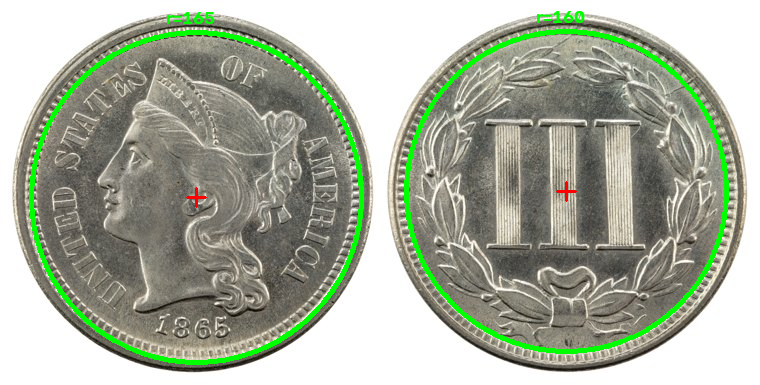
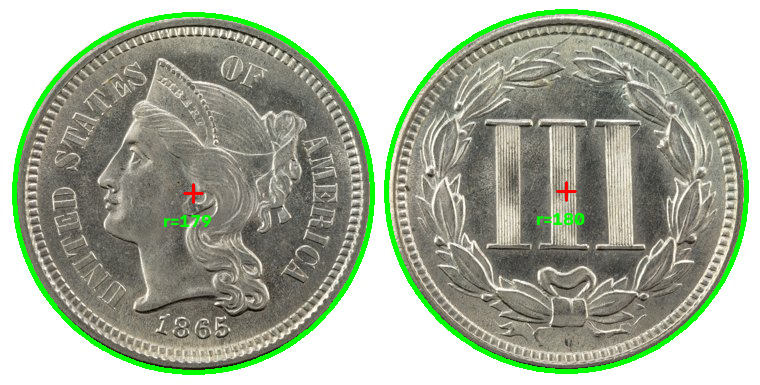
fix: 半径文字不再被图片边缘裁掉
大圆贴近画布上下边时外侧放不下，改为优先圆上方、其次圆下方、兜底落在圆心下方，并夹紧到画布内。

diff --git a/src/hough_tool/annotate.py b/src/hough_tool/annotate.py
@@ -15,6 +15,23 @@ CIRCLE_COLOR = (0, 255, 0)
 CENTER_COLOR = (0, 0, 255)
 
 
+def _label_origin(circle: Circle, width: int, height: int) -> tuple[int, int]:
+    """挑选半径文字的画点，避免被图片边缘裁掉。
+
+    优先放在圆上方，其次圆下方；两者都超出画布时（大圆贴近上下边），
+    退到圆心下方一点，宁可压在图案上也不让数字缺一半。
+    """
+    text_h = 22  # 0.6 字号的实际文字高度，留一点余量
+    x = min(max(circle.x - 30, 4), max(width - 64, 4))
+    above = circle.y - circle.r - 8
+    below = circle.y + circle.r + 22
+    if above >= text_h:
+        return x, above
+    if below <= height - 6:
+        return x, below
+    return x, min(circle.y + 34, height - 8)
+
+
 def annotate(
     image: np.ndarray,
     circles: list[Circle],
@@ -23,6 +40,7 @@ def annotate(
 ) -> np.ndarray:
     """返回画好圆的结果副本，不修改传入的原图。"""
     canvas = image.copy()
+    height, width = canvas.shape[:2]
     for circle in circles:
         cv2.circle(canvas, (circle.x, circle.y), circle.r, color, thickness)
         # 画一个十字标记圆心，方便核对圆心是否落在目标中心
@@ -38,7 +56,7 @@ def annotate(
         cv2.putText(
             canvas,
             f"r={circle.r}",
-            (circle.x - 30, circle.y - circle.r - 8 if circle.y - circle.r - 8 > 12 else circle.y + circle.r + 20),
+            _label_origin(circle, width, height),
             cv2.FONT_HERSHEY_SIMPLEX,
             0.6,
             color,
